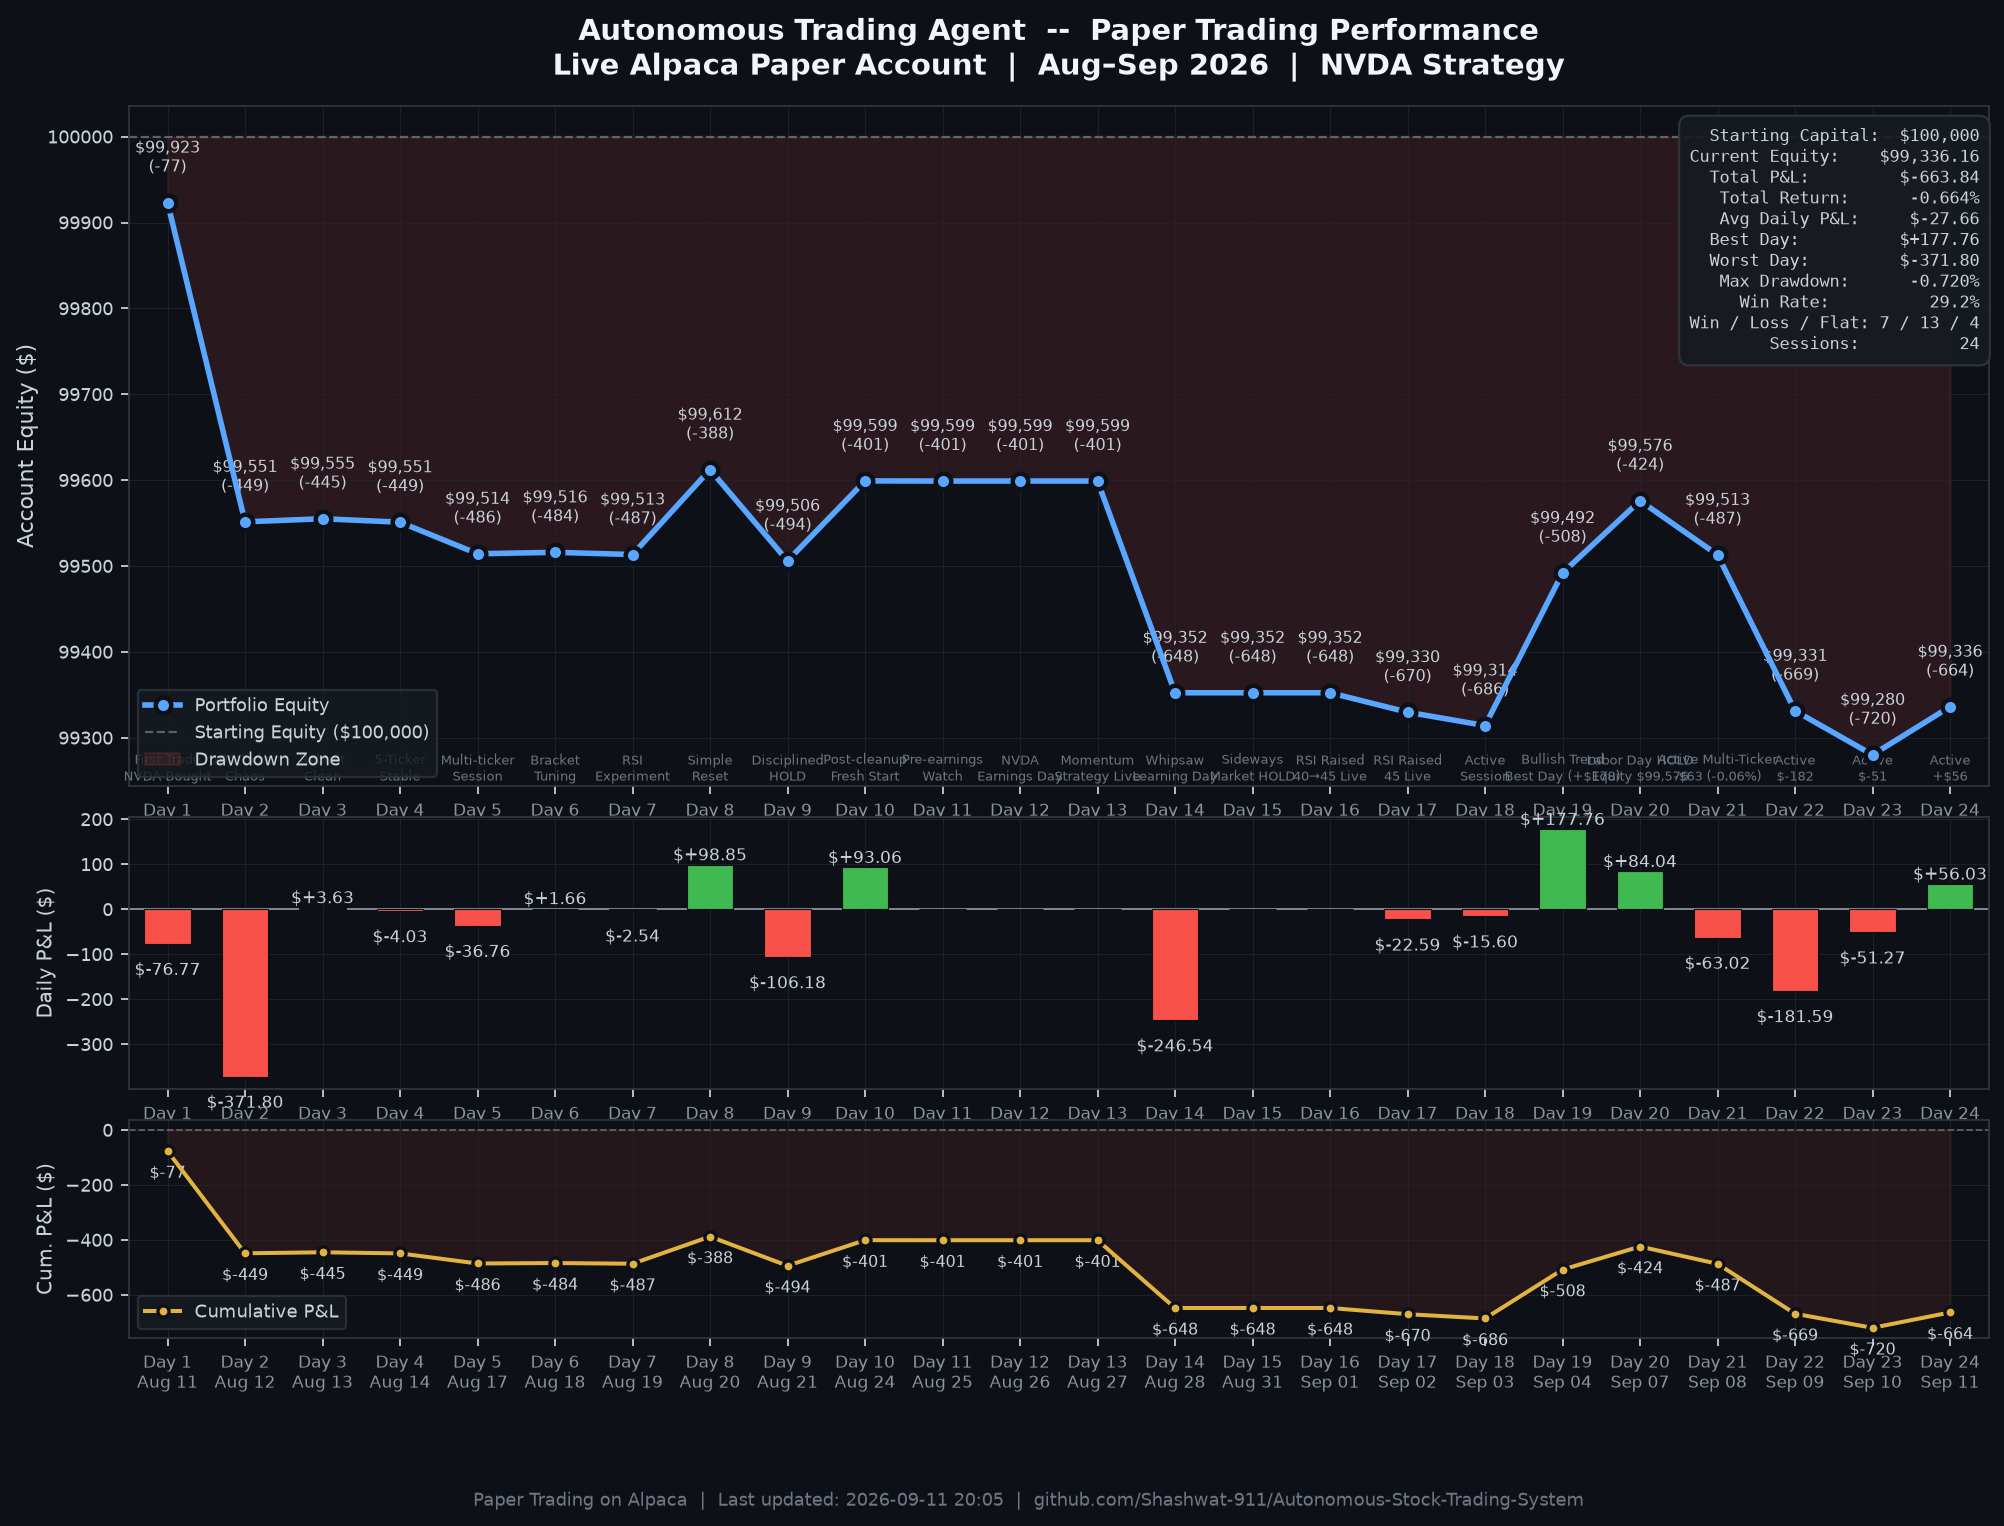
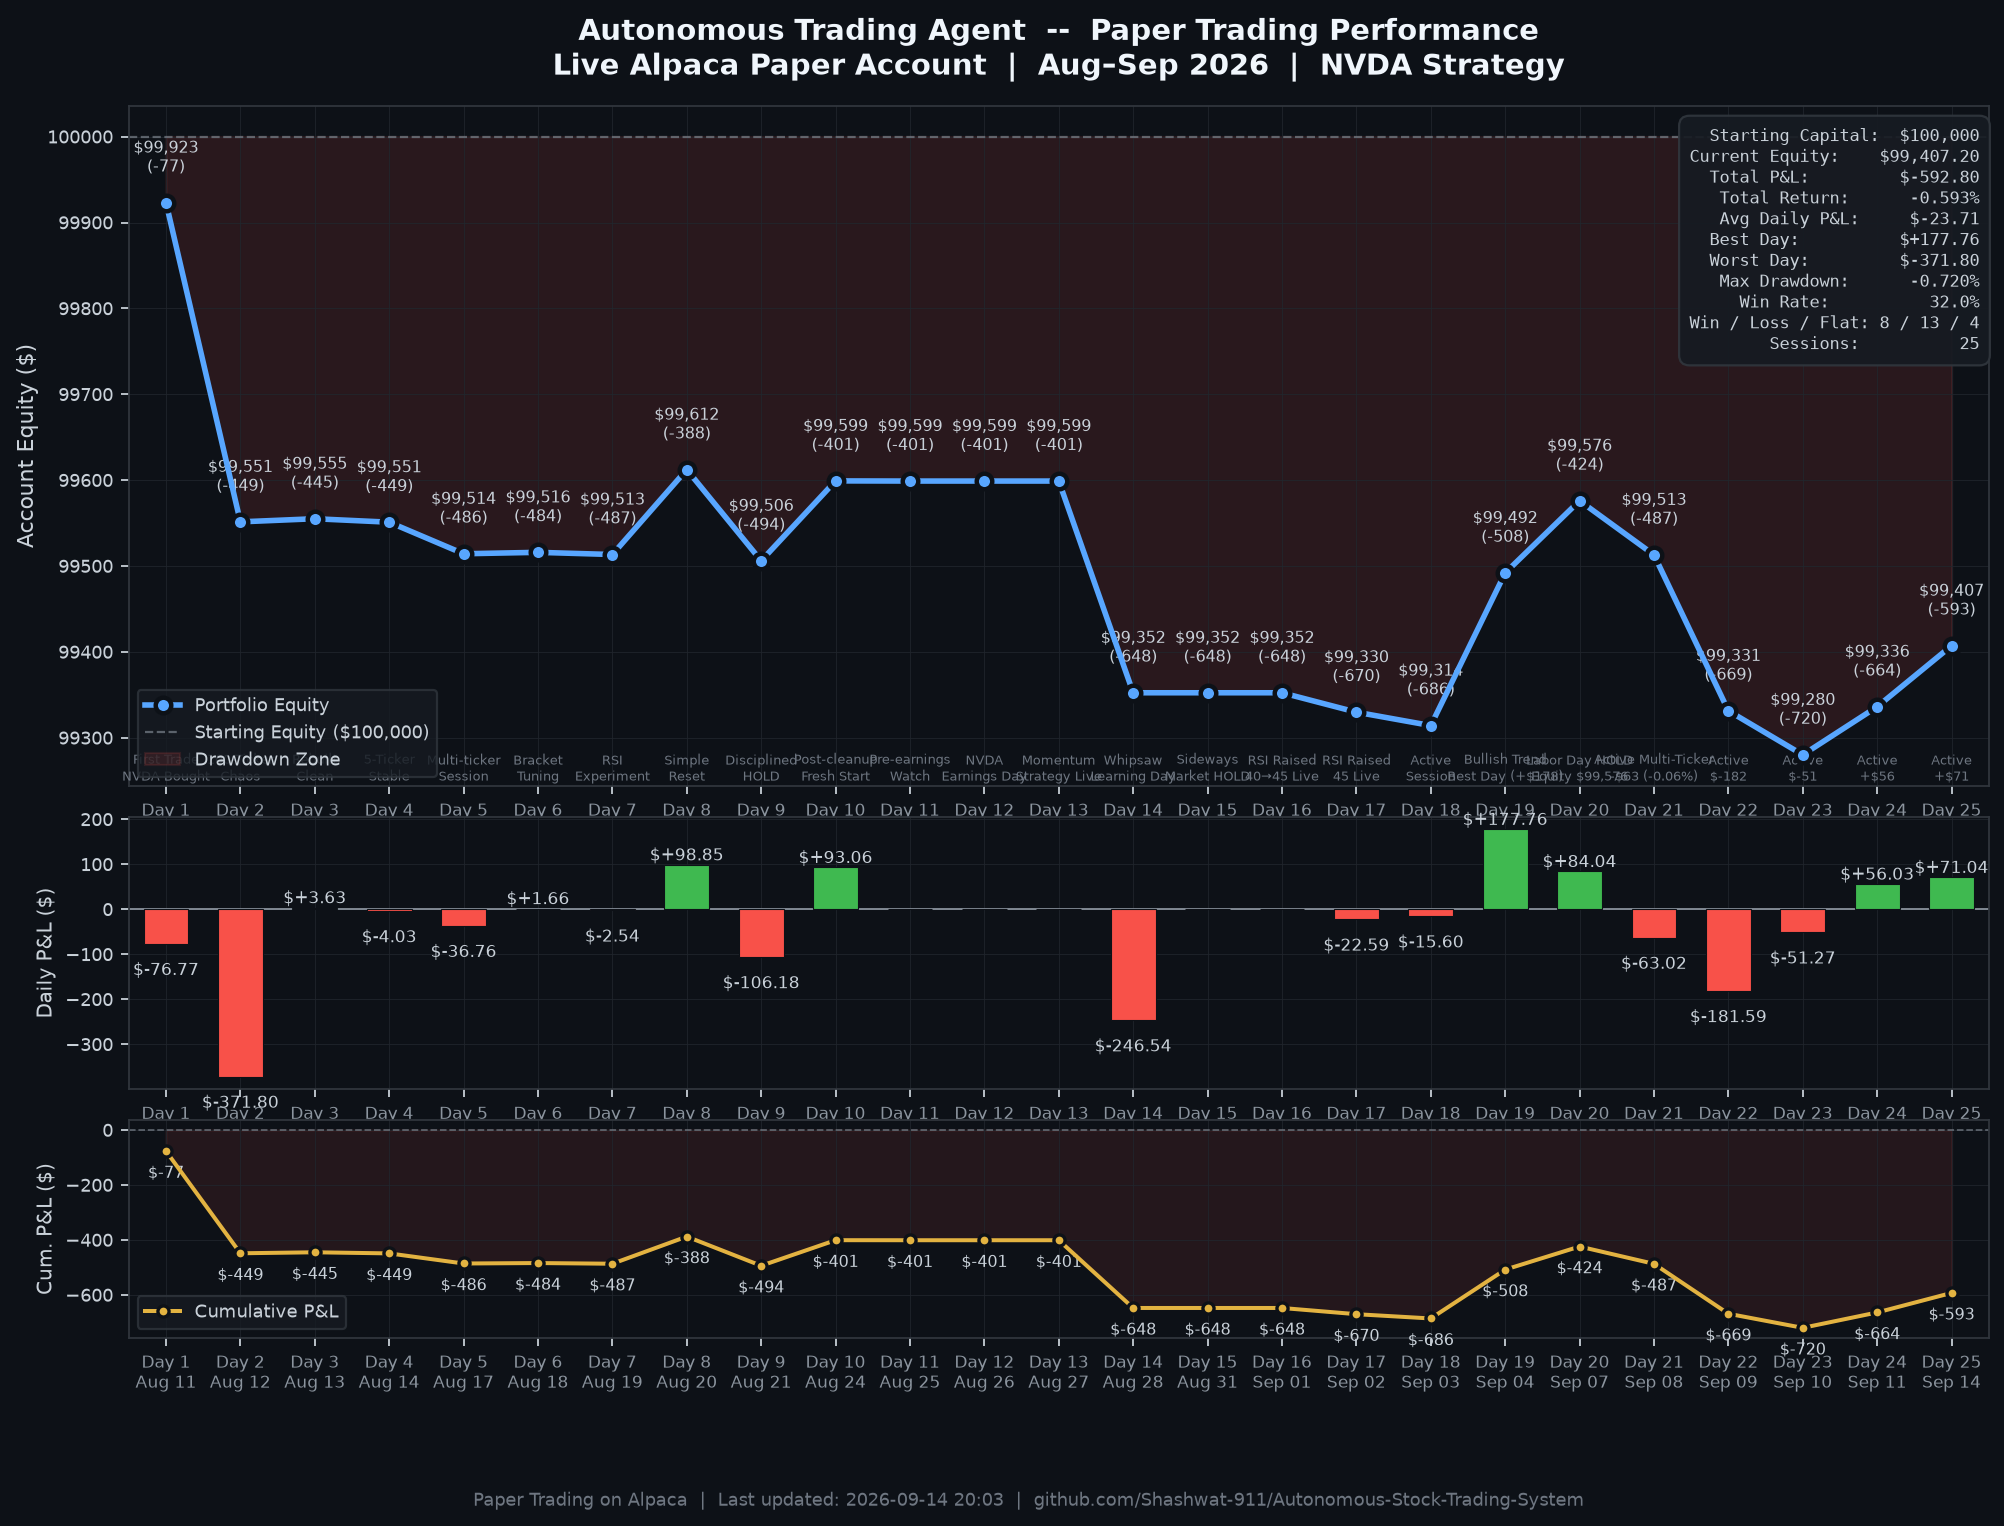
auto(session): 2026-09-14 | equity=$99,407 | return=-0.593%

diff --git a/README.md b/README.md
@@ -46,7 +46,7 @@ The automated trading bot is deployed in the cloud on Render with continuous mon
 
 > **Paper Trading on Alpaca** | Started: Aug 11, 2026 | Initial Capital: $100,000.00 | Universe: NVDA, TSLA, META, MSFT, AAPL (5-Stock High-Momentum Universe)
 
-![Daily P&L Chart](outputs/daily_pnl_chart.png?v=20260911)
+![Daily P&L Chart](outputs/daily_pnl_chart.png?v=20260914)
 
 *Chart auto-generated from live Alpaca Portfolio History API and verified session telemetry via [`scripts/generate_pnl_chart.py`](scripts/generate_pnl_chart.py).*
 
@@ -78,8 +78,9 @@ The automated trading bot is deployed in the cloud on Render with continuous mon
 | **Day 22** | Sep 09 (Wed) | $99,331.40 | -$181.59 | -$668.60 | -0.669% | Loss Session (-$181.59) |
 | **Day 23** | Sep 10 (Thu) | $99,280.13 | -$51.27 | -$719.87 | -0.720% | Active Session (-$51.27) |
 | **Day 24** | Sep 11 (Fri) | $99,336.16 | **+$56.03** | -$663.84 | -0.664% | Profitable Session (+$56.03) |
+| **Day 25** | Sep 14 (Mon) | $99,407.20 | **+$71.04** | -$592.80 | -0.593% | Profitable Session (+$71.04) |
 
-> **Current Equity**: $99,336.16 | **Total P&L**: $-663.84 | **Best Day**: $+177.76 | **Win Rate**: 29.2% (7W / 13L / 4 Flat) | **Max Drawdown**: -0.720% | **Sessions**: 24
+> **Current Equity**: $99,407.20 | **Total P&L**: $-592.80 | **Best Day**: $+177.76 | **Win Rate**: 32.0% (8W / 13L / 4 Flat) | **Max Drawdown**: -0.720% | **Sessions**: 25
 ---
 
 ## System Architecture
